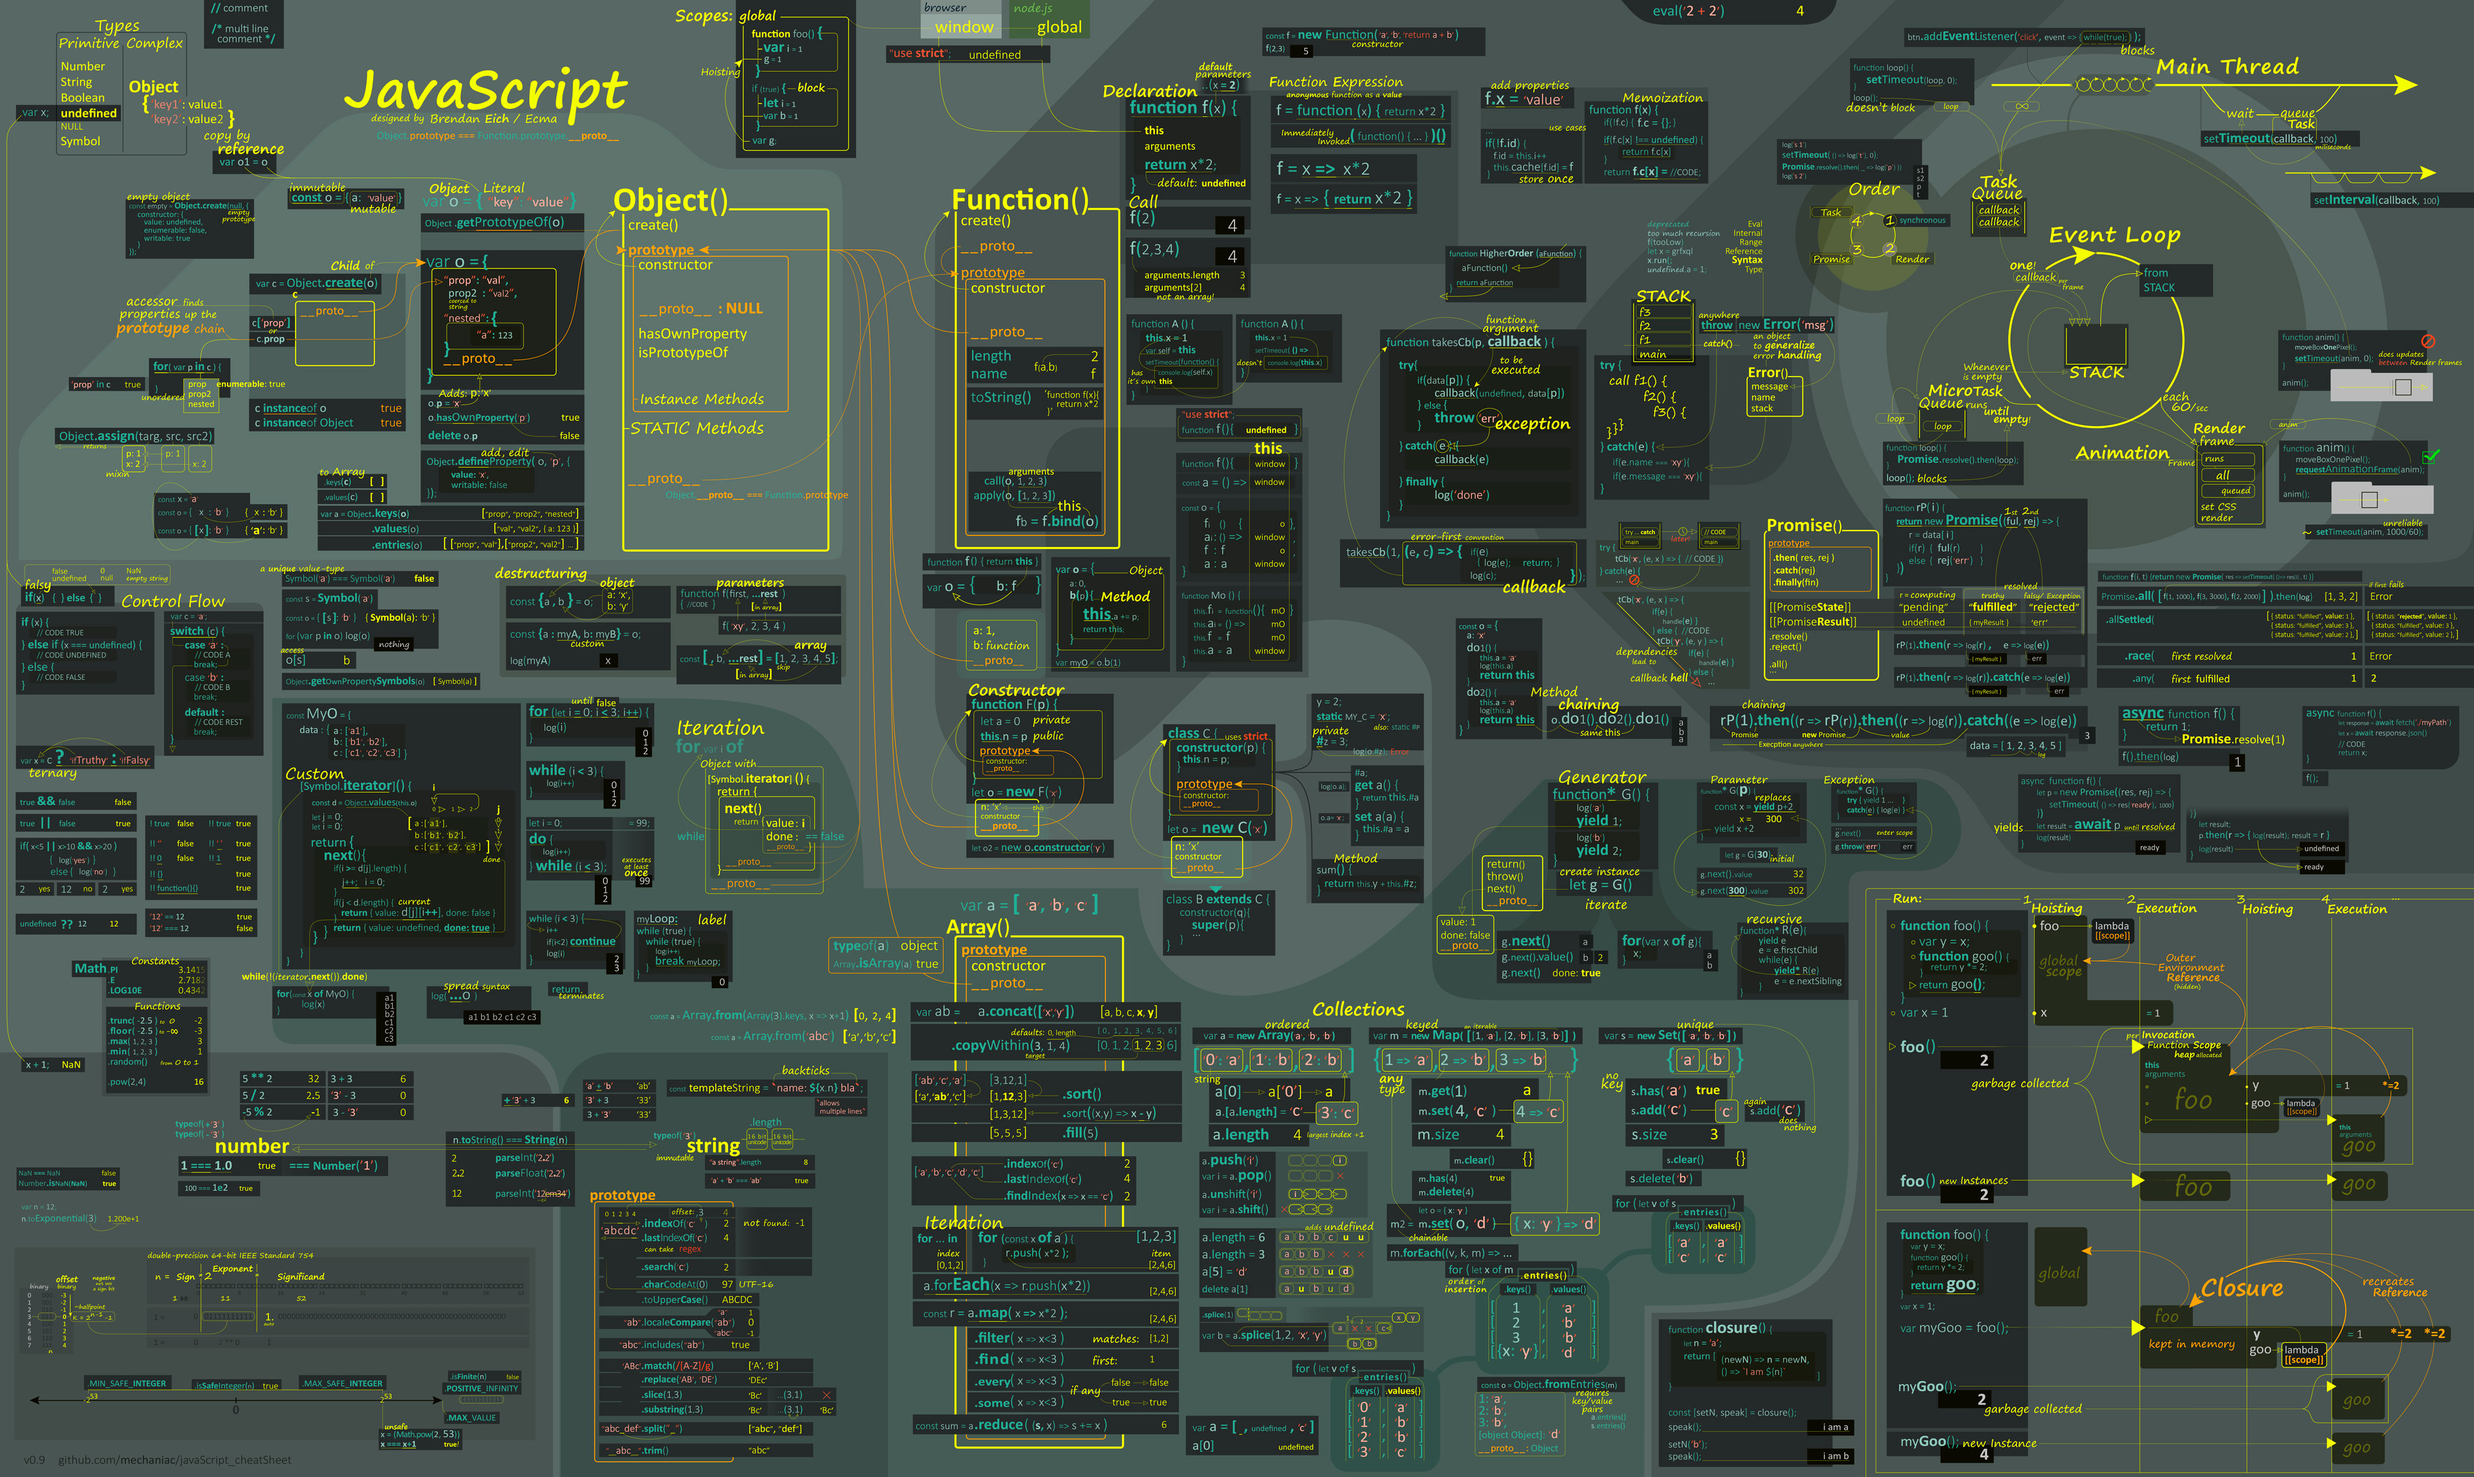
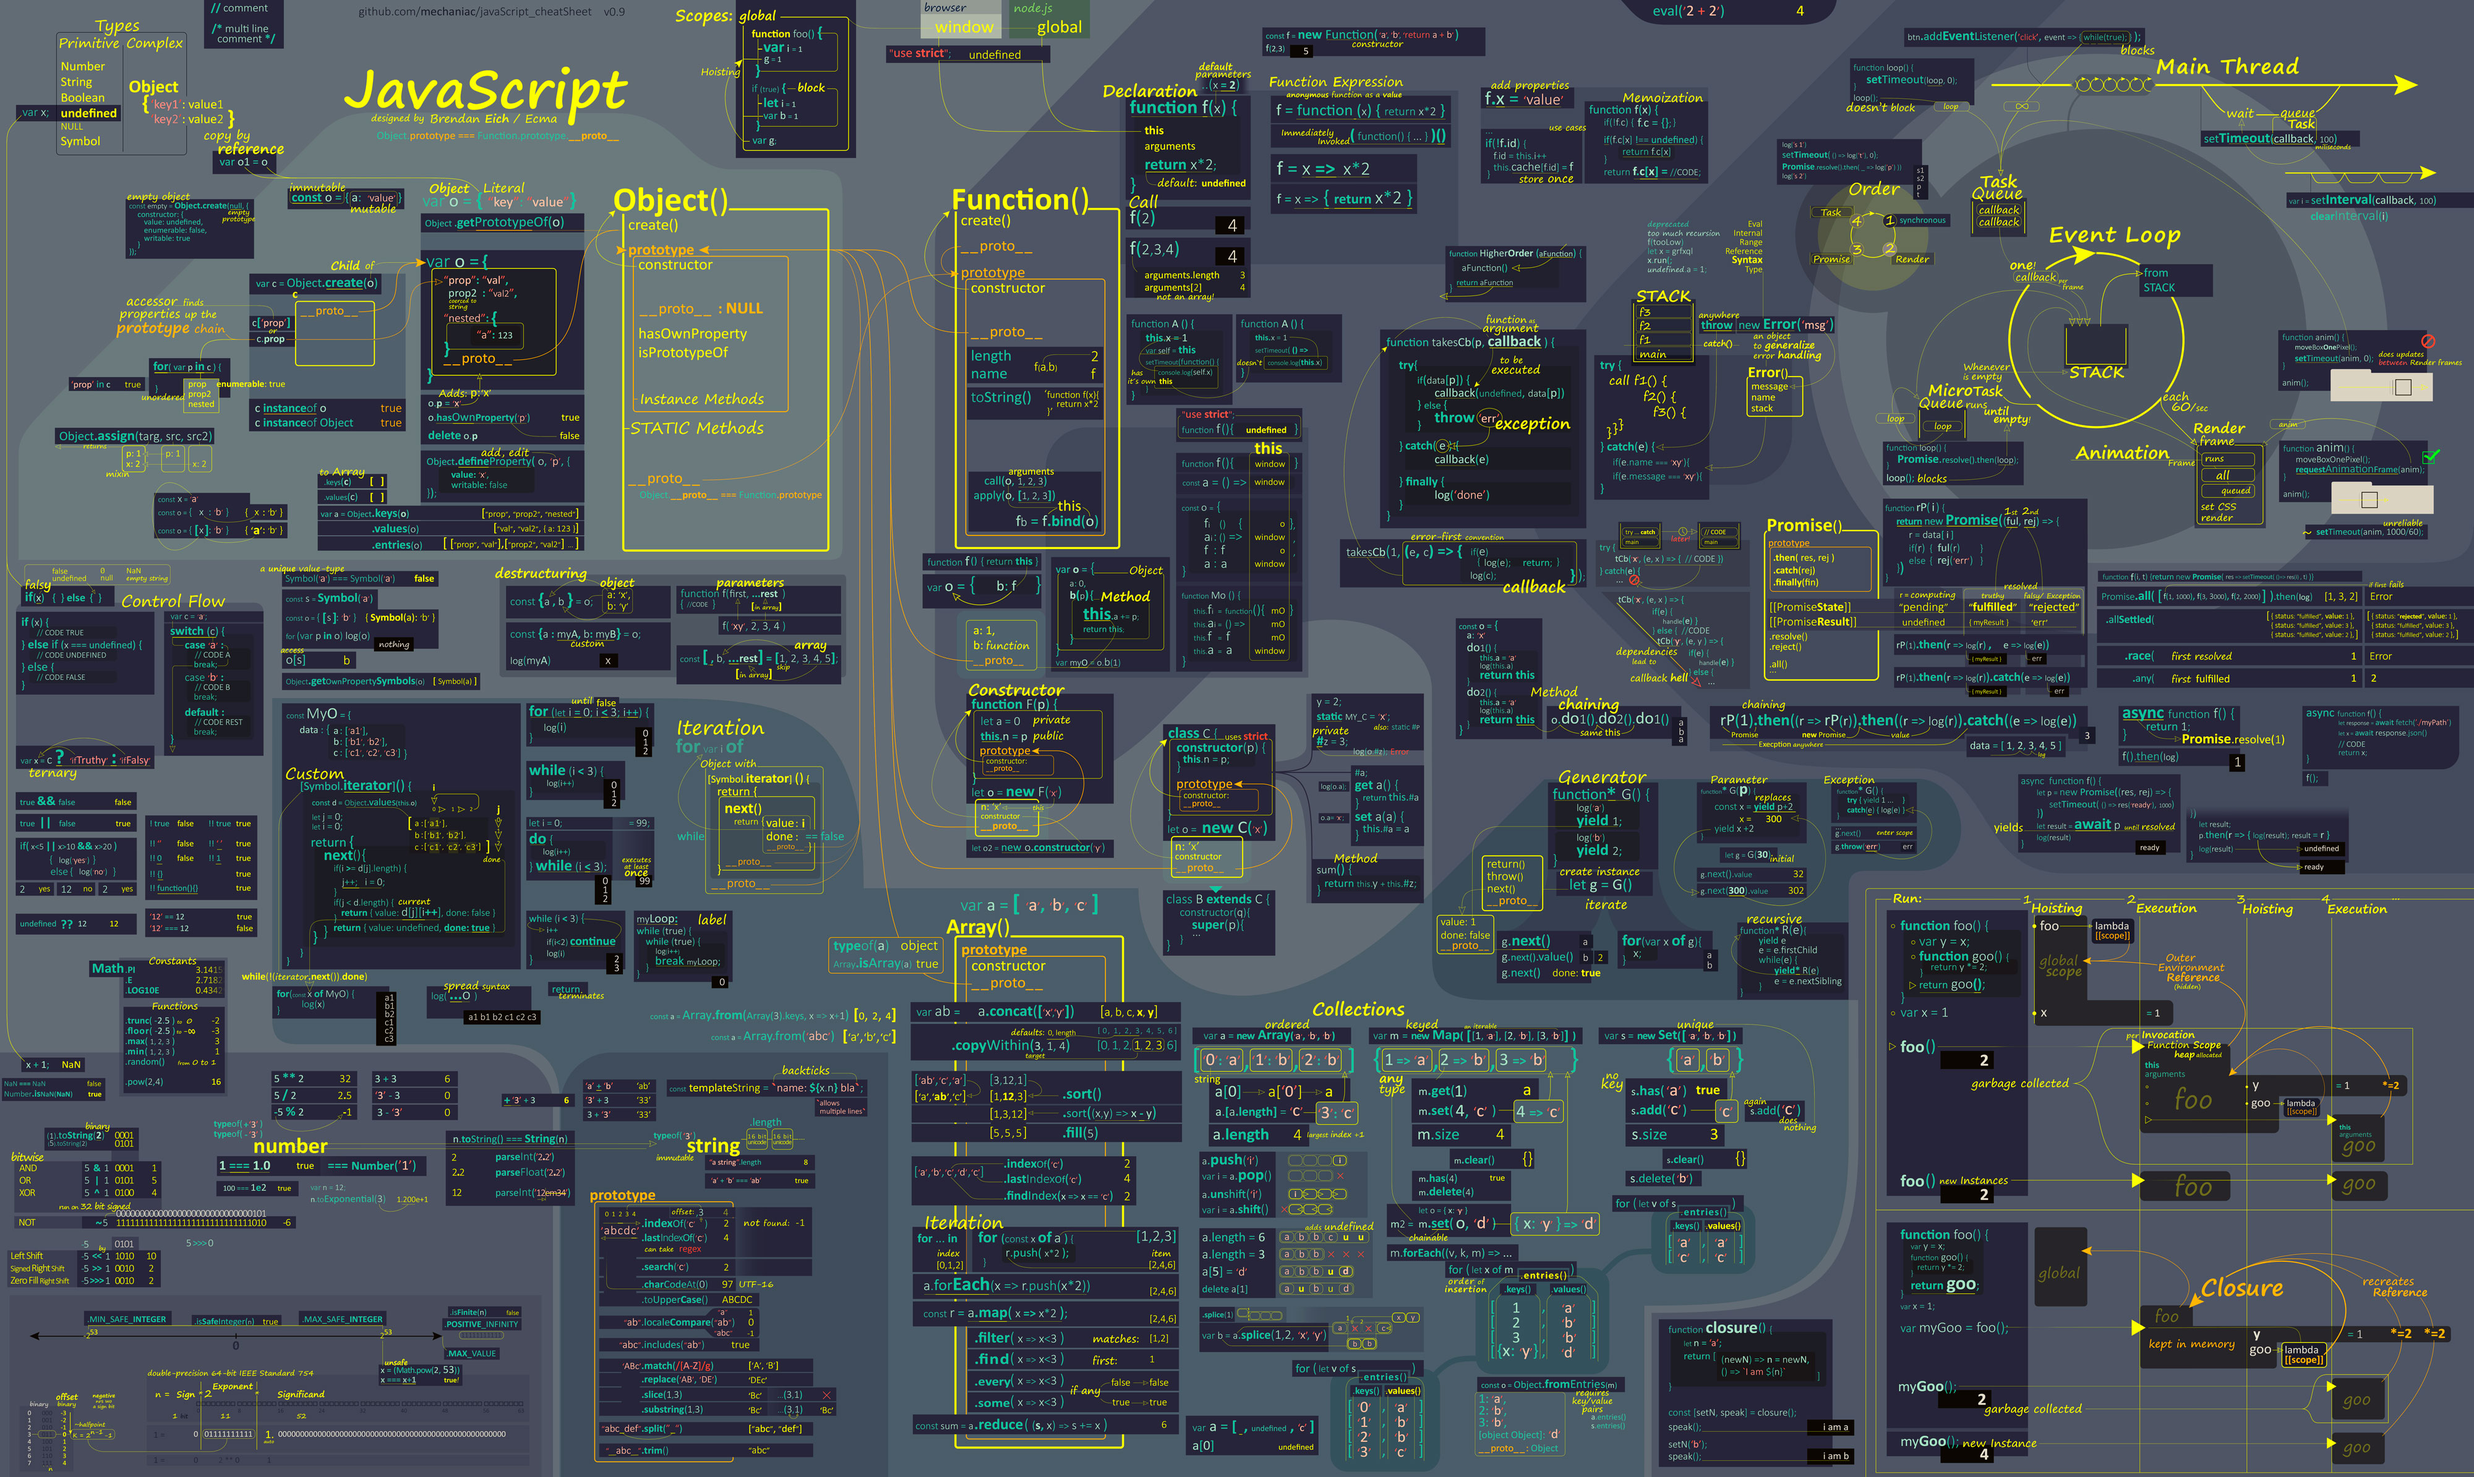
improved numbers, minor fixes

diff --git a/js_testScripts/hashMap_02.js b/js_testScripts/hashMap_02.js
@@ -1,0 +1,149 @@
+const log = console.log
+
+class HashMap {
+    constructor(l = 5, f = 1) {
+        this.a = new Array(l);
+        this.f = f;
+        this.s = 0;
+        this.c = 0;
+        this.keys = [];
+    }
+
+    hash(k) {
+        let h = 0;
+        const s = `${k}${typeof k}`;
+        l(`s = ${s}`)
+        for (let i = 0; i < s.length; i++) {
+            let cC = s.charCodeAt(i);
+            log(`cC = ${cC}, ${cC.toString(2)}`)
+            cC = cC << (i * 8);
+            log(`cC = ${cC}, ${cC.toString(2)}`)
+            h += cC
+            log(`h = ${h}`)
+        }
+
+        let hh = h % this.a.length;
+
+        console.log(`hash: k=${k}, hh= ${hh}, h= ${h}`)
+        return hh;
+    }
+
+
+
+    set(k, v) {
+        let { h, i } = this._getIs(k);
+
+        if (i === undefined) {
+            // initialize array and save key/value
+            i = this.keys.push({ d: k }) - 1; // keep track of the key index
+            this.a[h] = this.a[h] || [];
+            this.a[h].push({ k, v, kI: i });
+            this.s++;
+            // Optional: keep count of collisions
+            if (this.a[h].length > 1) { this.c++; }
+        } else {
+            // override existing value
+            this.a[h][i].v = v;
+        }
+
+        // check if a rehash is due
+        if (this.f > 0 && (this.s / this.a.length) > this.f) {
+            //console.log(`Rehash:`)
+            this.rehash(this.a.length * 2);
+
+        }
+
+        return this;
+    }
+
+    get(k) {
+        const { h, i } = this._getIs(k);
+
+        if (i === undefined) {
+            return;
+        }
+
+        return this.a[h][i].v;
+    }
+
+    has(k) {
+        return !!this.get(k);
+    }
+
+    _getIs(k) {
+        const h = this.hash(k);
+        const vs = this.a[h] || [];
+
+        for (let i = 0; i < vs.length; i++) {
+            const e = vs[i];
+            if (e.k === k) {
+                //console.log(`getIs: bI: ${h}, i: ${i}`)
+                return { h, i };
+            }
+        }
+
+        return { h };
+    }
+
+
+    _getBI(k) {
+        const h = this.hash(k);
+        return h % this.a.length;
+    }
+
+    delete(k) {
+        const { h, i, kI } = this._getIs(k);
+        //log(`h = ${h}, i = ${i}, kI = ${kI}`)
+        if (i === undefined) {
+            return false;
+        }
+
+        this.a[h].splice(i, 1);
+        delete this.keys[kI];
+        this.s--;
+
+        return true;
+    }
+
+    rehash(l) {
+        const m = new HashMap(l);
+
+        this.keys.forEach(k => {
+            if (k) {
+                m.set(k.d, this.get(k.d));
+            }
+        });
+
+        // update bucket
+        this.a = m.a;
+        this.c = m.c;
+        // Optional: both `keys` has the same content except that the new one doesn't have empty spaces from deletions
+        this.keys = m.keys;
+    }
+
+    _getF() {
+        return this.s / this.a.length;
+    }
+}
+
+
+var m = new HashMap()
+
+m.set('ab', 12)
+m.set('ae', 22)
+m.set('at', 32)
+//m.delete('ab')
+//   m.set('d',42)
+//   m.set('e',42)
+//   m.set('f',42)
+//   m.set('g',42)
+//   m.set('h',42)
+//   m.set('i',42)
+//   m.set('j',42)
+
+log(`----------------------`)
+
+log(m)
+
+log(m.get('ab'))
+  //log(m.get('b'))

diff --git a/js_testScripts/hashMap_01.js b/js_testScripts/hashMap_01.js
@@ -1,0 +1,94 @@
+const log = console.log
+
+/**
+ * Hash Map data structure implementation
+ * Hash uses string code. Doesn't support overwrite.
+ */
+ class MyHashMap {
+    /**
+     * Initialize array that holds the values. Default is size 1,000
+     * @param {number} l
+     */
+    constructor(l = 2) {
+      this.a = new Array(l);
+      this.collisions = 0;
+    }
+  
+    /**
+     * insert a key/value pair into the hash map
+     * @param {any} k
+     * @param {any} v
+     */
+    set(k, v) {
+      const i = this.getIndex(k);
+      if (this.a[i]) {
+        this.a[i].push({ key: k, value: v });
+        if (this.a[i].length > 1) { this.collisions++; }
+      } else {
+        this.a[i] = [{ key: k, value: v }];
+      }
+      return this;
+    }
+  
+    /**
+     * Gets the value out of the hash map
+     * @param {any} k
+     */
+    get(k) {
+      const i = this.getIndex(k);
+      for (let a_i = 0; a_i < this.a[i].length; a_i++) {
+        const e = this.a[i][a_i];
+        if (e.key === k) {
+          return e.value;
+        }
+      }
+    }
+  
+    /**
+     * This hash function returns the sum of the char codes.
+     * Limitation same characters return the same code regardless of the order
+     * @param {any} k
+     */
+    hash(k) {
+      let h = 0;
+      const s = `${k}${typeof k}`;
+  
+      for (let i = 0; i < s.length; i++) {
+        const c = s.charCodeAt(i);
+        //log(`c inside = ${c}`)
+        h += c << (i * 8);
+        //log(`h inside = ${h}`)
+      }
+      //log(`h = ${h}`)
+      return h;
+    }
+  
+    /**
+     * Get the array index after applying the hash funtion to the given key
+     * @param {any} k
+     */
+    getIndex(k) {
+      const h = this.hash(k);
+      return h % this.a.length;
+    }
+  }
+  
+
+  let h = new MyHashMap()
+
+  log(h)
+  h.set('a',12)
+  h.set('b',22)
+  log(h)
+
+
+  let mm = new Map()
+
+  mm.set('a',12)
+  mm.set('b',22)
+
+  log('mm: ')
+  log(mm)
+  
+  //module.exports = MyHashMap;
+  

diff --git a/js_testScripts/tree.js b/js_testScripts/tree.js
@@ -1,0 +1,36 @@
+const log = console.log
+
+
+const data = [
+    { id: 56, parentId: 62 },
+    { id: 81, parentId: 80 },
+    { id: 74, parentId: null },
+    { id: 76, parentId: 80 },
+    { id: 63, parentId: 62 },
+    { id: 80, parentId: 86 },
+    { id: 87, parentId: 86 },
+    { id: 62, parentId: 74 },
+    { id: 86, parentId: 74 },
+];
+
+const idMapping = data.reduce((acc, el, i) => {
+    acc[el.id] = i;
+    return acc;
+}, {});
+
+log(idMapping)
+
+let root;
+data.forEach(el => {
+
+    if (el.parentId === null) {
+        root = el;
+        return;
+    }
+    const parentEl = data[idMapping[el.parentId]];
+    parentEl.children = [...(parentEl.children || []), el];
+    log(`parentEl= ${parentEl}`)
+});
+
+log(root)
+log(idMapping)

diff --git a/js_testScripts/index.html b/js_testScripts/index.html
@@ -8,6 +8,7 @@
     <link rel="stylesheet" href="style.css">
     <script defer src="./myLib.js"></script>
     <script defer src="./script.js"></script>
+    <script defer src="./hashMap_02.js"></script>
 
     
 </head>

diff --git a/README.md b/README.md
@@ -1,3 +1,3 @@
-# javaScript_cheatSheet
+# map of javascript
 
 ![alt text](https://github.com/mechaniac/javaScript_cheatSheet/blob/main/Javascript_01.jpg?raw=true)
